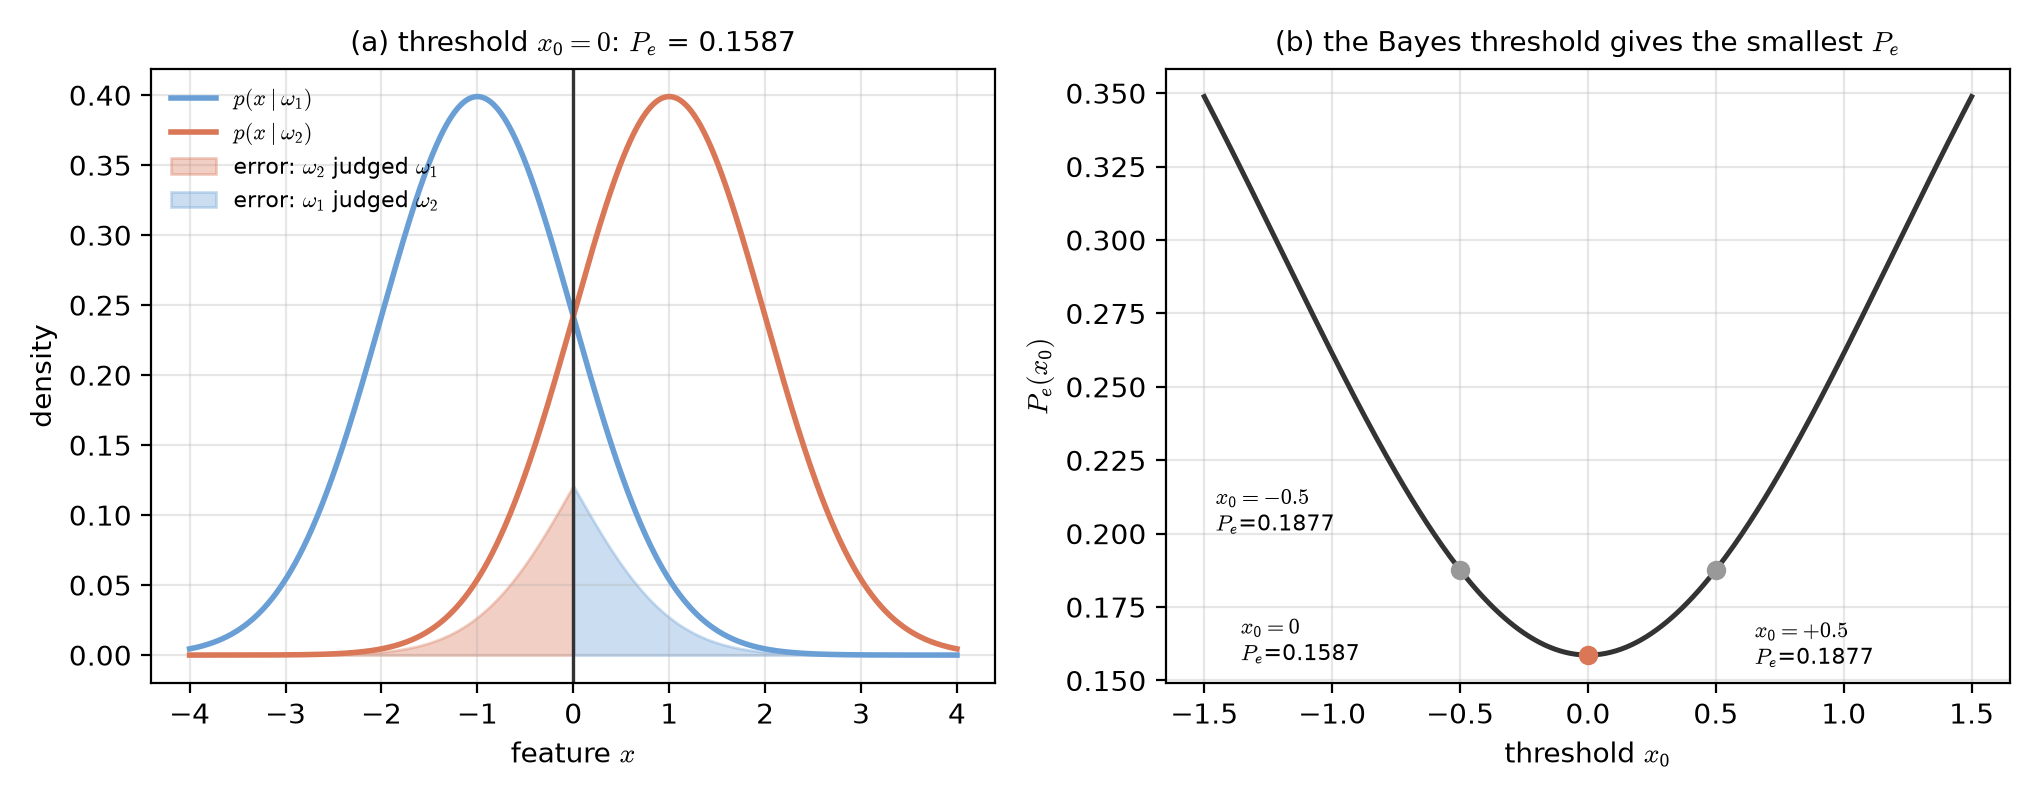
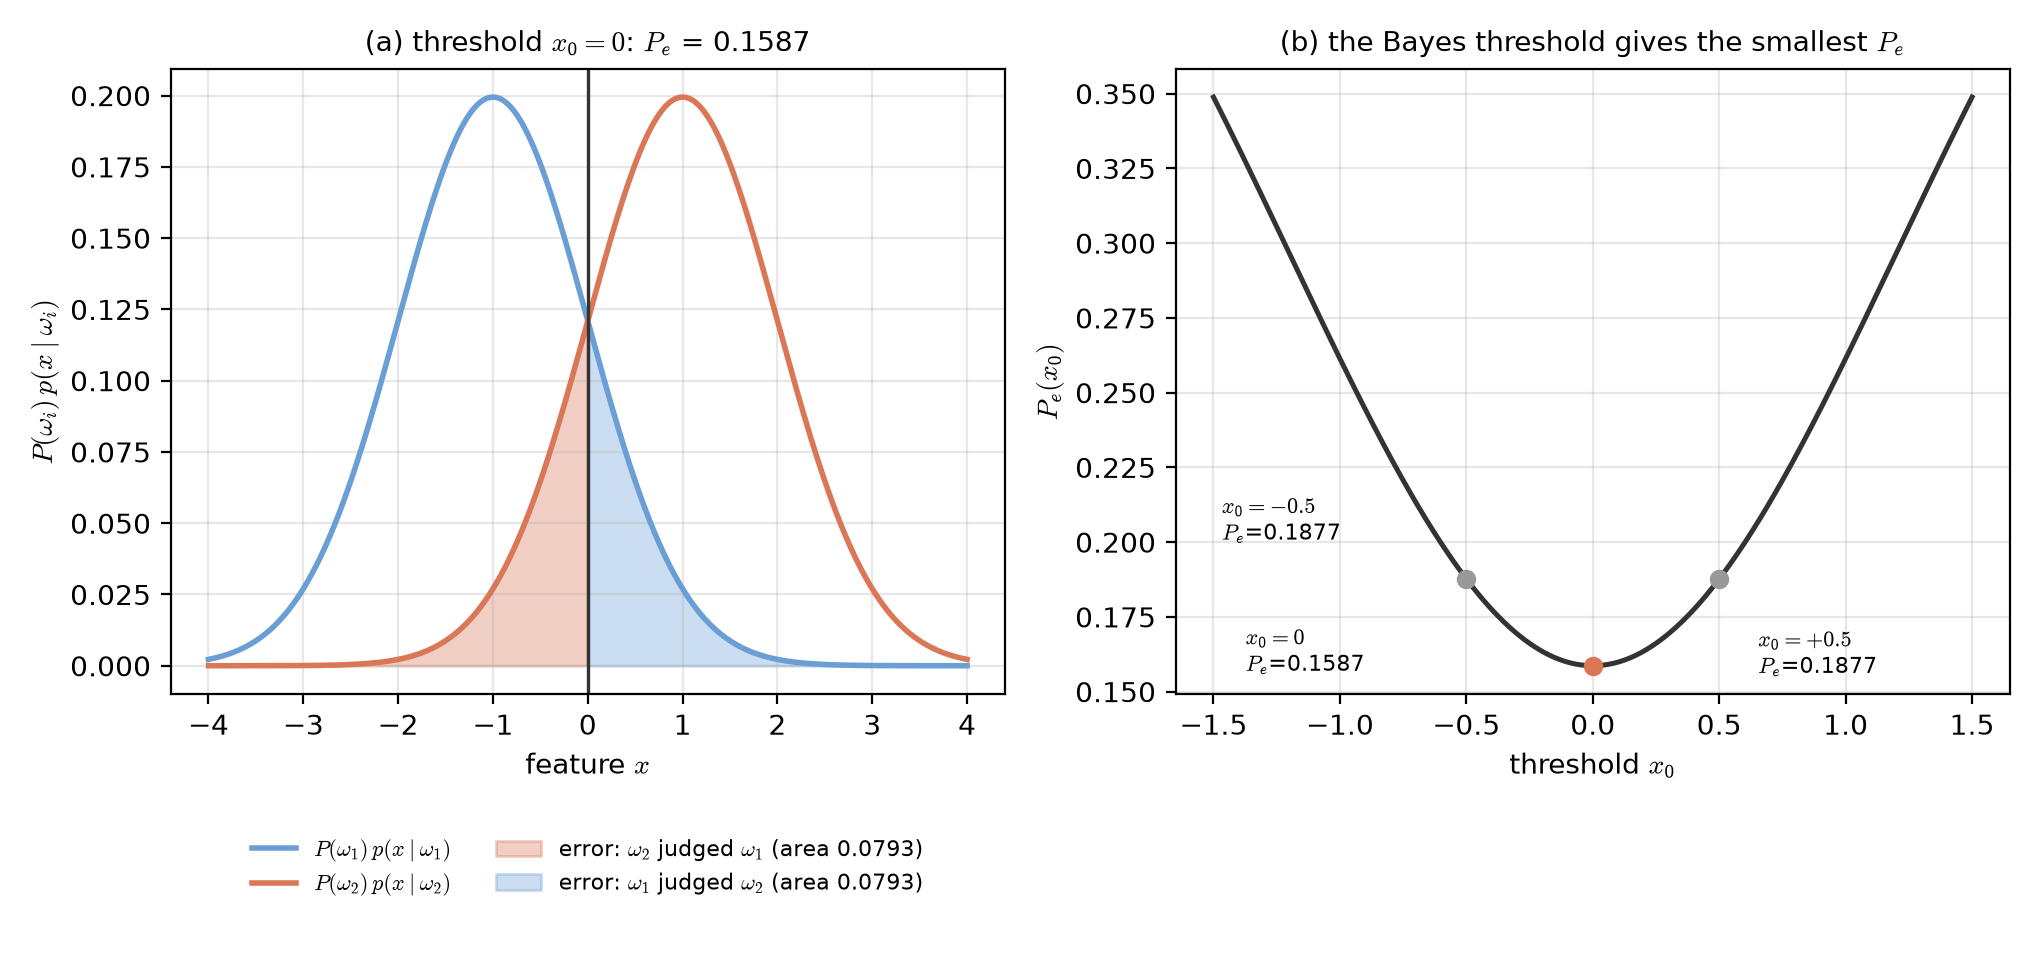
fix: lec02-error-regions 陰影改為畫加權密度上的面積,同步圖說與技能稽核

Changed region(s): [[0.0, 0.0312, 0.9887, 0.9688], [0.7415, 0.9375, 0.8342, 0.9688], [0.7415, 0.6562, 0.7724, 0.6875]]

diff --git a/assets/figures/src/lec02-error-regions.py b/assets/figures/src/lec02-error-regions.py
@@ -1,7 +1,8 @@
 """Figure code: lec02-error-regions. Error probability for two equal-prior Gaussians.
 
 p(x|w1) = N(-1, 1) and p(x|w2) = N(+1, 1), P(w1) = P(w2) = 0.5.
-Panel (a): densities with the error tails shaded for threshold x0 = 0.
+Panel (a): the weighted densities P(w_i) p(x|w_i) for threshold x0 = 0. The shaded areas lie
+exactly under the plotted curves, on the wrong side of the threshold; each has area 0.0793.
 Panel (b): total error Pe(x0) versus threshold; the minimum is at x0 = 0 (the intersection).
 """
 import numpy as np
@@ -10,6 +11,7 @@ from math import erf, sqrt
 
 plt.rcParams["mathtext.fontset"] = "cm"
 c1, c2 = "#6a9fd6", "#d97757"
+P = 0.5
 
 
 def Phi(z):
@@ -20,28 +22,33 @@ def gauss(x, m):
     return np.exp(-(x - m) ** 2 / 2) / np.sqrt(2 * np.pi)
 
 
-def Pe(x0, mu1=-1.0, mu2=1.0, s=1.0, P=0.5):
+def Pe(x0, mu1=-1.0, mu2=1.0, s=1.0, P=P):
     # error = P(w2) * P(x in R1 | w2) + P(w1) * P(x in R2 | w1)
     return P * Phi((x0 - mu2) / s) + P * (1 - Phi((x0 - mu1) / s))
 
 
 x = np.linspace(-4, 4, 800)
-fig, (ax1, ax2) = plt.subplots(1, 2, figsize=(10.2, 4.0))
-
-# panel (a)
-ax1.plot(x, gauss(x, -1), color=c1, lw=2.0, label=r"$p(x\mid\omega_1)$")
-ax1.plot(x, gauss(x, 1), color=c2, lw=2.0, label=r"$p(x\mid\omega_2)$")
+w1 = P * gauss(x, -1)   # P(w1) p(x|w1)
+w2 = P * gauss(x, 1)    # P(w2) p(x|w2)
 left = x <= 0
 right = x >= 0
-ax1.fill_between(x[left], 0, gauss(x[left], 1) * 0.5, color=c2, alpha=0.35,
-                 label="error: $\\omega_2$ judged $\\omega_1$")
-ax1.fill_between(x[right], 0, gauss(x[right], -1) * 0.5, color=c1, alpha=0.35,
-                 label="error: $\\omega_1$ judged $\\omega_2$")
+area_left = P * Phi(0 - 1)        # integral of P(w2) p(x|w2) for x <= 0
+area_right = P * (1 - Phi(0 + 1))  # integral of P(w1) p(x|w1) for x >= 0
+
+fig, (ax1, ax2) = plt.subplots(1, 2, figsize=(10.2, 4.8))
+
+# panel (a): weighted densities; shading lies exactly under the plotted curves
+ax1.plot(x, w1, color=c1, lw=2.0, label=r"$P(\omega_1)\,p(x\mid\omega_1)$")
+ax1.plot(x, w2, color=c2, lw=2.0, label=r"$P(\omega_2)\,p(x\mid\omega_2)$")
+ax1.fill_between(x[left], 0, w2[left], color=c2, alpha=0.35,
+                 label=f"error: $\\omega_2$ judged $\\omega_1$ (area {area_left:.4f})")
+ax1.fill_between(x[right], 0, w1[right], color=c1, alpha=0.35,
+                 label=f"error: $\\omega_1$ judged $\\omega_2$ (area {area_right:.4f})")
 ax1.axvline(0, color="#333333", lw=1.2)
 ax1.set_xlabel("feature $x$")
-ax1.set_ylabel("density")
+ax1.set_ylabel(r"$P(\omega_i)\,p(x\mid\omega_i)$")
 ax1.set_title(f"(a) threshold $x_0=0$: $P_e$ = {Pe(0.0):.4f}", fontsize=10)
-ax1.legend(frameon=False, fontsize=8, loc="upper left")
+ax1.legend(loc="upper center", bbox_to_anchor=(0.5, -0.2), ncol=2, frameon=False, fontsize=8)
 ax1.grid(alpha=0.3)
 
 # panel (b)
@@ -50,8 +57,9 @@ ax2.plot(t, Pe(t), color="#333333", lw=1.8)
 offsets = {-0.5: (-88, 14), 0.0: (-125, -2), 0.5: (14, -34)}
 for x0, off in offsets.items():
     ax2.scatter([x0], [Pe(x0)], color="#d97757" if x0 == 0 else "#999999", zorder=3, s=36)
-    ax2.annotate(f"$x_0={x0:+.1f}$\n$P_e$={Pe(x0):.4f}" if x0 else "$x_0=0$\n$P_e$=" + f"{Pe(0.0):.4f}",
-                 (x0, Pe(x0)), textcoords="offset points", xytext=off, fontsize=8)
+    label = f"$x_0={x0:+.1f}$" if x0 else "$x_0=0$"
+    ax2.annotate(f"{label}\n$P_e$={Pe(x0):.4f}", (x0, Pe(x0)), textcoords="offset points",
+                 xytext=off, fontsize=8)
 ax2.set_xlabel("threshold $x_0$")
 ax2.set_ylabel(r"$P_e(x_0)$")
 ax2.set_title("(b) the Bayes threshold gives the smallest $P_e$", fontsize=10)
@@ -60,4 +68,4 @@ ax2.grid(alpha=0.3)
 fig.tight_layout()
 fig.savefig("assets/figures/lec02-error-regions.png", dpi=200)
 print("saved assets/figures/lec02-error-regions.png")
-print("Pe at -0.5, 0, 0.5:", [round(float(Pe(v)), 4) for v in (-0.5, 0.0, 0.5)])
+print("areas:", round(area_left, 4), round(area_right, 4), "total", round(area_left + area_right, 4))

diff --git a/lectures/lec02.md b/lectures/lec02.md
@@ -126,11 +126,11 @@ The integrals are areas under the curves. The first term is the area of $\omega_
 
 The values above were computed with Python. `[Added]` Here $\Phi(-1)\approx 0.1587$ is the area of the standard normal distribution to the left of $-1$.
 
-![左：兩個高斯密度與誤判陰影（x0=0）；右：不同門檻下的總誤判機率（Left: two Gaussian densities with error shading for x0 = 0; right: total error probability for different thresholds）](../assets/figures/lec02-error-regions.png)
+![左：加權密度 $P(\omega_i)p(x\mid\omega_i)$ 與門檻 $x_0=0$ 的誤判陰影；右：不同門檻下的總誤判機率（Left: weighted densities $P(\omega_i)p(x\mid\omega_i)$ with error shading for $x_0=0$; right: total error probability for different thresholds）](../assets/figures/lec02-error-regions.png)
 
-**圖說 `lec02-error-regions`**：左圖是兩條高斯密度與門檻 $x_0=0$ 的誤判陰影。右圖是總誤判機率隨門檻變化的曲線，最低點在兩條曲線的交點 $x_0=0$。
+**圖說 `lec02-error-regions`**：左圖畫的是加權密度 $P(\omega_i)p(x\mid\omega_i)$。陰影的上緣就是圖上的曲線，每一塊陰影的面積都是 0.0793，兩塊合計 0.1587，也就是 $P_e$。右圖是總誤判機率隨門檻變化的曲線，最低點在兩條曲線的交點 $x_0=0$。
 
-**Caption `lec02-error-regions`**: left, the two Gaussian densities with the error shading for threshold $x_0=0$. Right, the total error probability as the threshold changes; the lowest point is the crossing point $x_0=0$.
+**Caption `lec02-error-regions`**: the left panel plots the weighted densities $P(\omega_i)p(x\mid\omega_i)$. The top edge of each shaded region is the plotted curve. Each region has area 0.0793, and the two together give $P_e=0.1587$. The right panel shows the total error probability as the threshold changes; the lowest point is the crossing point $x_0=0$.
 
 **常見迷思（Common misconception）**：「移動門檻就能同時減少兩種錯誤。」事實上，往某一邊移動，會減少一種錯誤，同時增加另一種。交點是兩者之和最小的位置。
 

diff --git a/COURSE_STATE.md b/COURSE_STATE.md
@@ -37,6 +37,7 @@
 
 (最新的在最上面。格式:`YYYY-MM-DD — 決定或異動內容`)
 
+- 2026-10-09 — 修正 `lec02-error-regions` 左圖:陰影用加權值 $0.5\,p(x\mid\omega)$ 計算,但圖上畫的是未加權密度,陰影上緣對不上曲線。改為畫加權密度 $P(\omega_i)p(x\mid\omega_i)$,陰影直接落在曲線之下,每塊面積 0.0793(合計 0.1587)。圖說與替代文字同步更新;講義技能 §7 第 9 項新增「陰影或面積圖」稽核。
 - 2026-10-09 — 依課程網頁 Chapter 2(以貝氏決策理論為基礎的分類器)撰寫第 2 週講義 `lectures/lec02.md`。範圍為教科書 2.1–2.4 的前半(貝氏決策、誤判機率與風險、判別函數、高斯貝氏分類器/QDA);2.4 後半的 LDA 超平面與 2.5 以後(參數估計、MAP、EM、無母數、kNN、Naive Bayes、貝氏網路)留待後續週次。圖:`lec02-bayes-numbers`、`lec02-error-regions`、`lec02-qda-regions`(Matplotlib,數字已驗算,已目視檢查)。原創性檢查通過(唯一重複為章名引用)。
 - 2026-10-09 — 修正 `lec01-design-loop`:圖上只剩一條回饋路徑,但圖說與正文寫「任何較早的階段」。原因:為避免虛線穿過方塊,刪除了回到「特徵生成」的細虛線,卻沒有重新對照圖說。已重畫兩條回饋路徑(粗虛線回特徵選擇、細虛線繞過上方回特徵生成),圖說同步更新。講義技能新增「圖說先行」、「排版衝突時改佈局、不刪元素」與第 7 節第 9 項「圖說與圖形一致性稽核」。稽核結果:圖說三項主張(四階段順序、兩條回饋路徑、細虛線不穿過方塊)皆與圖檔相符。
 - 2026-10-09 — 圖片改用文字代碼編號(不用數字序號,增刪圖片時不必重新編號):`lec01-feature-plane`、`lec01-learning-settings`、`lec01-design-loop`,檔名、腳本與圖說使用同一代碼。每張圖加上中英圖說。講義技能 §5.4 已更新此規則。

diff --git a/.agents/skills/textbook-lecture-notes/SKILL.md b/.agents/skills/textbook-lecture-notes/SKILL.md
@@ -325,6 +325,8 @@ python .agents/skills/textbook-lecture-notes/scripts/render_formula.py --batch f
    - 有任何一條不符，先修圖，再修圖說。
    - 稽核結果記入 `COURSE_STATE.md` 或給老師的摘要。
    - 案例：`lec01-design-loop` 為了避免虛線穿過方塊，刪除了回到「特徵生成」的細虛線，但圖說仍寫「任何較早的階段」，圖與圖說不符。
+   - 陰影或面積圖：陰影的上緣必須是圖上實際畫出的曲線。若陰影用了加權值（例如 $P(\omega_i)p(\mathbf{x}\mid\omega_i)$），圖上的曲線也要畫同一個加權值，不能只畫未加權的密度。圖說要標出面積數值，並與理論值比對。
+   - 案例：`lec02-error-regions` 的陰影用 $0.5\,p(x\mid\omega)$ 計算，圖上畫的卻是未加權的 $p(x\mid\omega)$，陰影邊界對不上任何可見曲線，被誤認為錯誤。
 
 驗證用的腳本是一次性的，不要提交進 Repo（除非是 `assets/figures/src/` 中的圖表腳本）。
 
